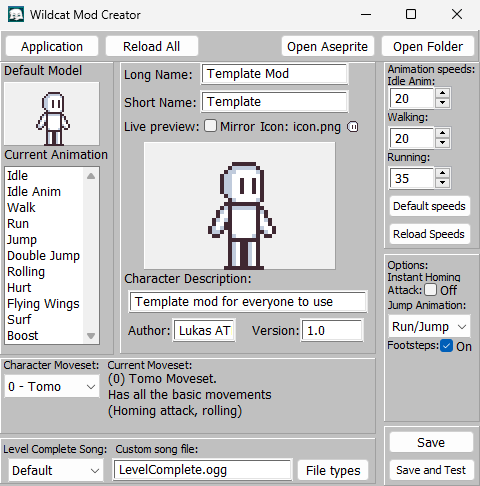
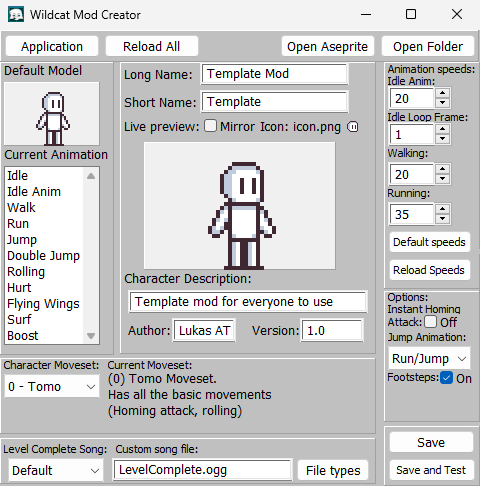
assets update / fixes tomo mod creator docs

Changed region(s): [[0.7812, 0.216, 1.0, 0.8025]]

diff --git a/others/modmanual/modcreatorscreen.html b/others/modmanual/modcreatorscreen.html
@@ -76,6 +76,11 @@
             <li>Idle, Walking and Running Boxes</li>
             <ul>Here you can input the speed your animations have in the scale of 0% to 100%.<br> 
             The game runs at locked 60FPS, so, for example, 20% speed would be the 20% of 60FPS (12FPS)<br>You can also preview the current speed of each animation on the animation and character preview sections.</ul>
+            <li>Idle Loop Frame</li>
+            <ul>Here you can input the animation frame your idle animation will loop back to after it ends.<br>The value can go from 0 (first frame) to 7 (last frame);
+            <br><strong>0</strong> = idle animation loops from first frame.
+            <br><strong>7</strong> = idle animation doesn't loop.
+            <br><strong>any in-between</strong> = animation will loop from said frame.</ul>
             <li>Default speeds button</li>
             <ul>Sets the speed boxes to the game's default values (20%, 20% and 35%)</ul>
             <li>Reload speeds button</li>

diff --git a/others/modmanual/makingamod.html b/others/modmanual/makingamod.html
@@ -112,6 +112,7 @@
             <img src="img/reload.png" class="cimg"><br>
             And it's all done now!<br>
             <img src="img/reloadcomplete.png" class="cimg"><br>
+            You can touch up some stuff like the animation speeds and the idle frame loop.
         </div>
         
         <br>
